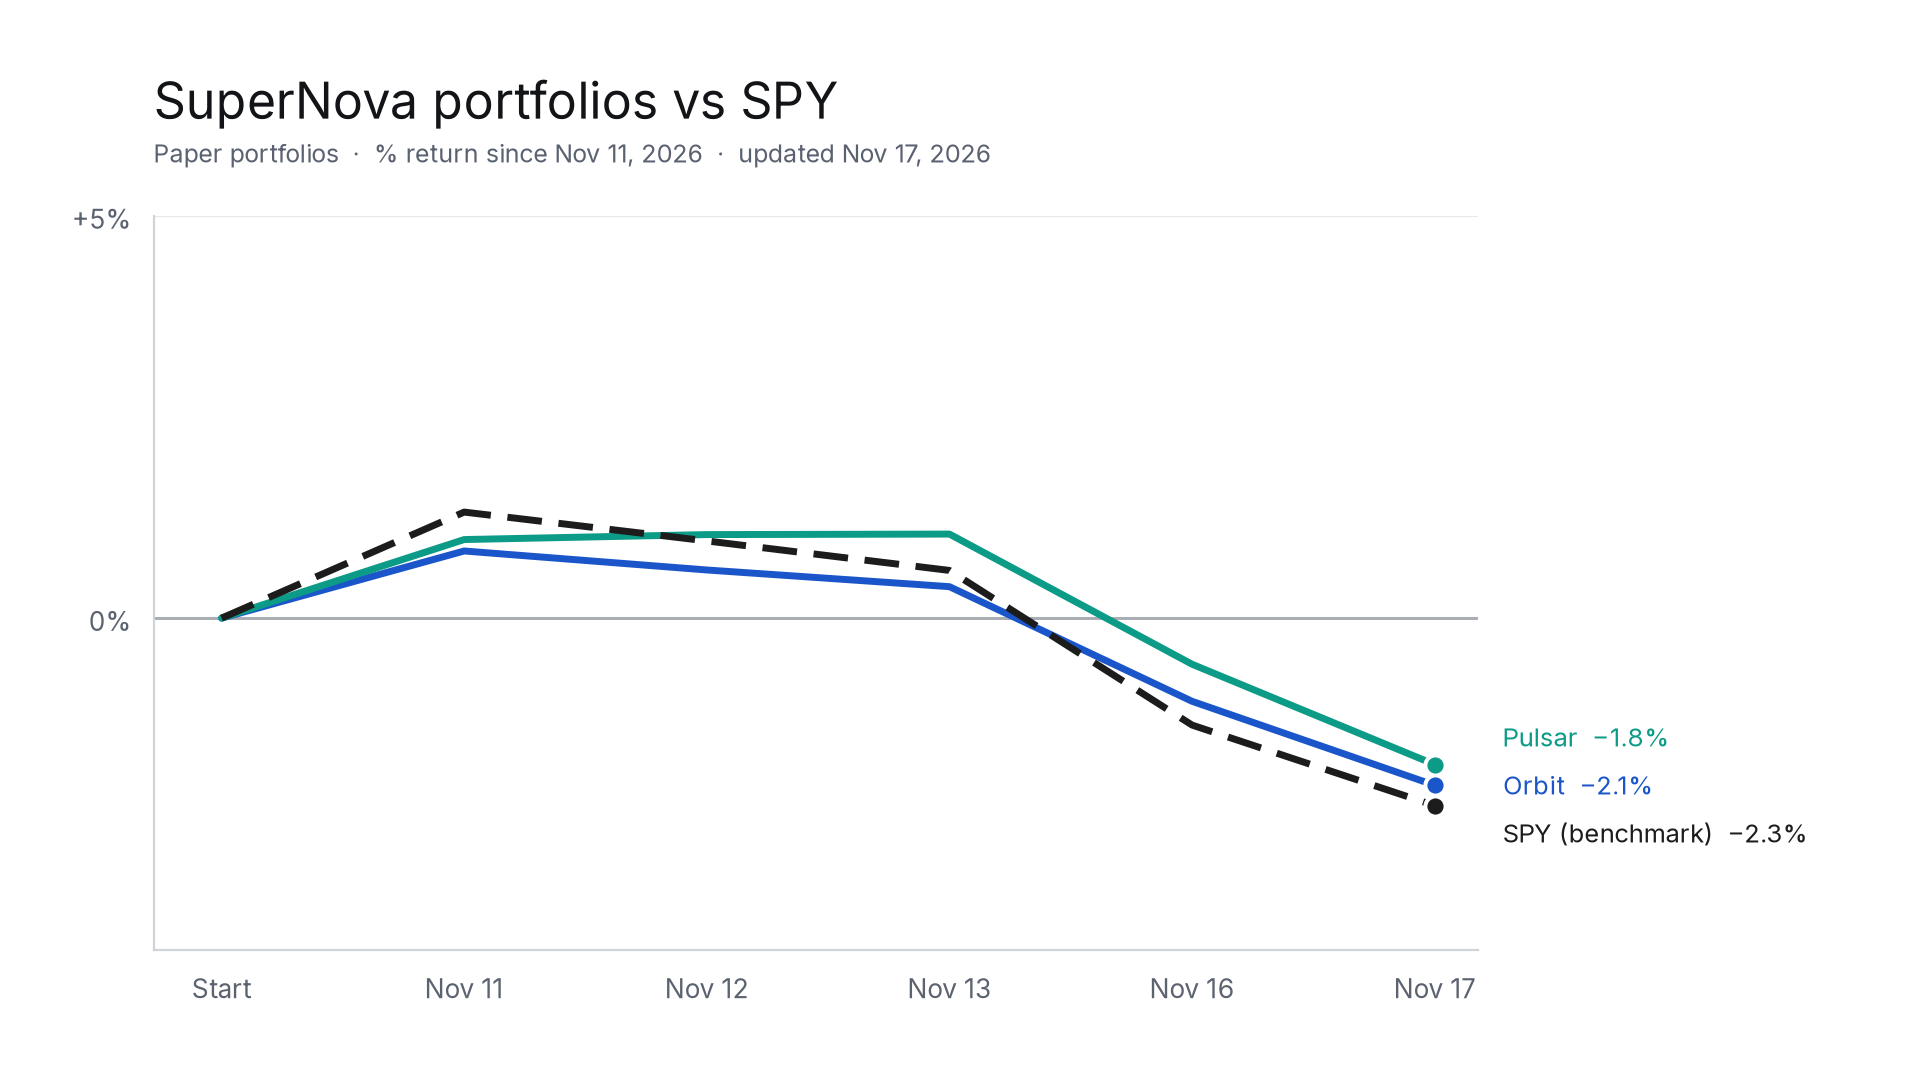
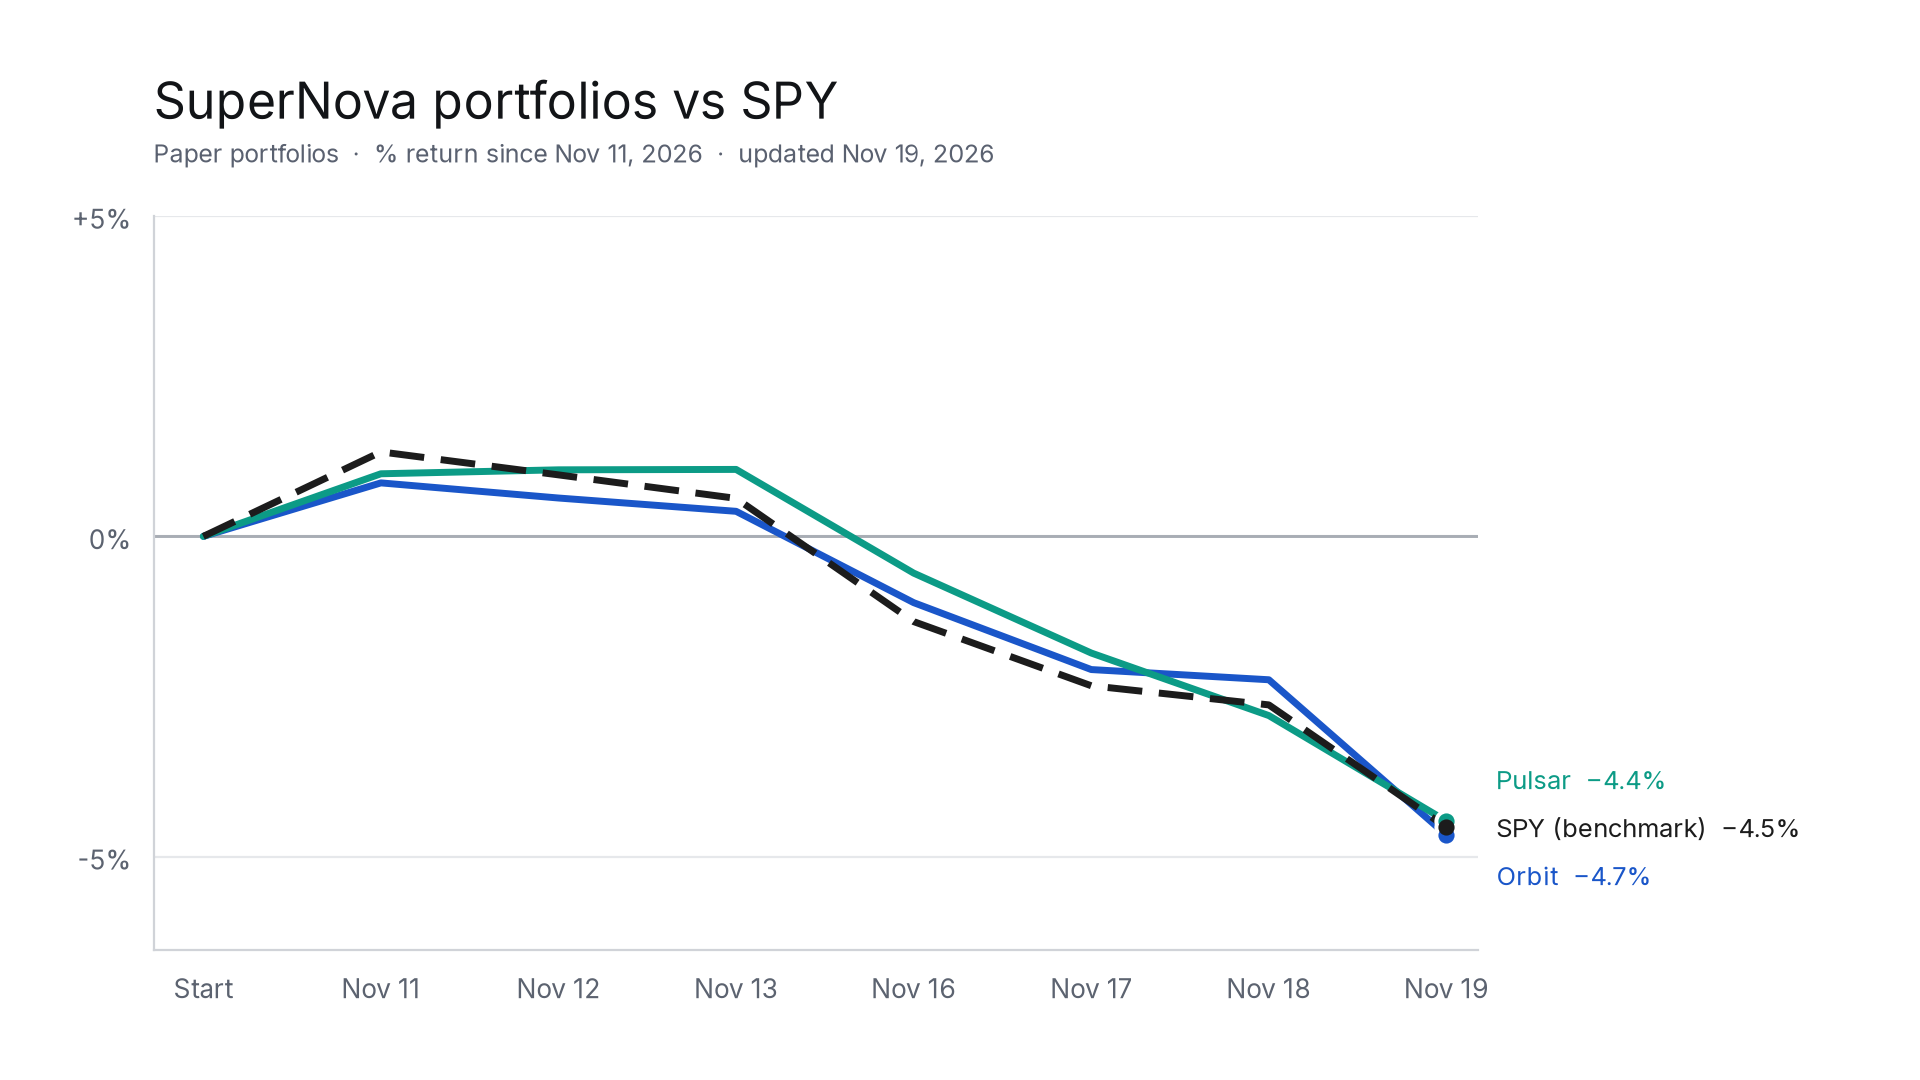
Update for 2026-11-19

diff --git a/README.md b/README.md
@@ -10,10 +10,10 @@ Paper portfolios, percent return since November 11, 2026, compared with SPY.
 
 | Portfolio | Start value (Nov 11, 2026) | Latest close | Return | SPY same period |
 |---|---|---|---|---|
-| SuperNova Orbit | $6,760.60 | $6,620.11 (Nov 17) | -2.08% | -2.33% |
-| SuperNova Pulsar | $6,988.14 | $6,860.95 (Nov 17) | -1.82% | -2.33% |
+| SuperNova Orbit | $6,760.60 | $6,445.50 (Nov 19) | -4.66% | -4.54% |
+| SuperNova Pulsar | $6,988.14 | $6,677.66 (Nov 19) | -4.44% | -4.54% |
 
-**SuperNova Orbit** is a concentrated portfolio of high-conviction U.S. stocks, built to compete against the S&P 500. It has no fixed rebalance schedule and trades only when its preset rules are triggered, otherwise holding steady. Risk is managed with position limits and a disciplined drawdown process. It uses settled cash only.
+**SuperNova Orbit** is a concentrated growth portfolio of up to 20 high-conviction U.S. stocks, built to compete against the S&P 500. It pairs leaders in fast-growing themes like technology with a core of high-quality companies, and shifts weight toward what is working. Risk is managed with strict position and sector limits, a small cash buffer and a disciplined drawdown process. Orbit is reviewed weekly.
 
 **SuperNova Pulsar** is my steady portfolio of low-cost ETFs. I adjust the mix each quarter, aiming to beat the S&P 500 with smaller drops.
 
